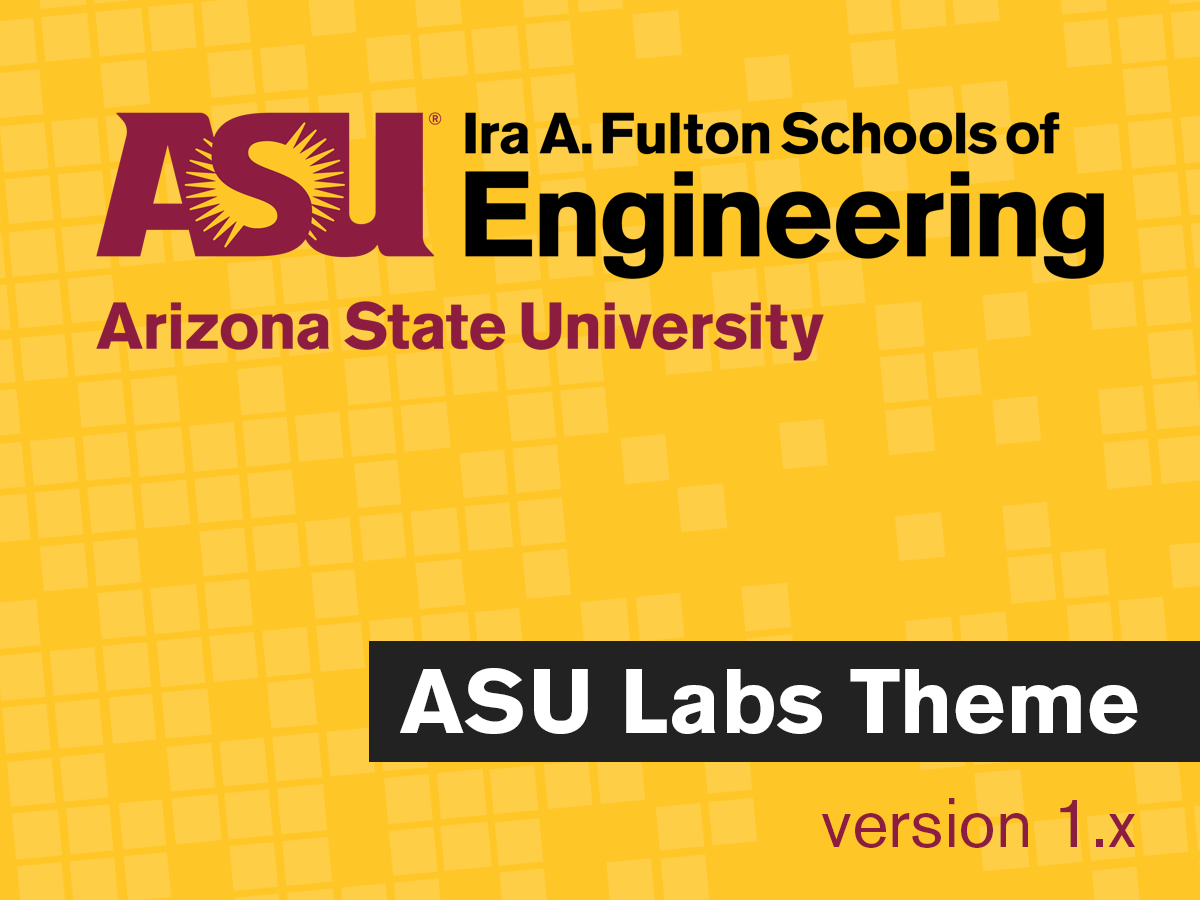
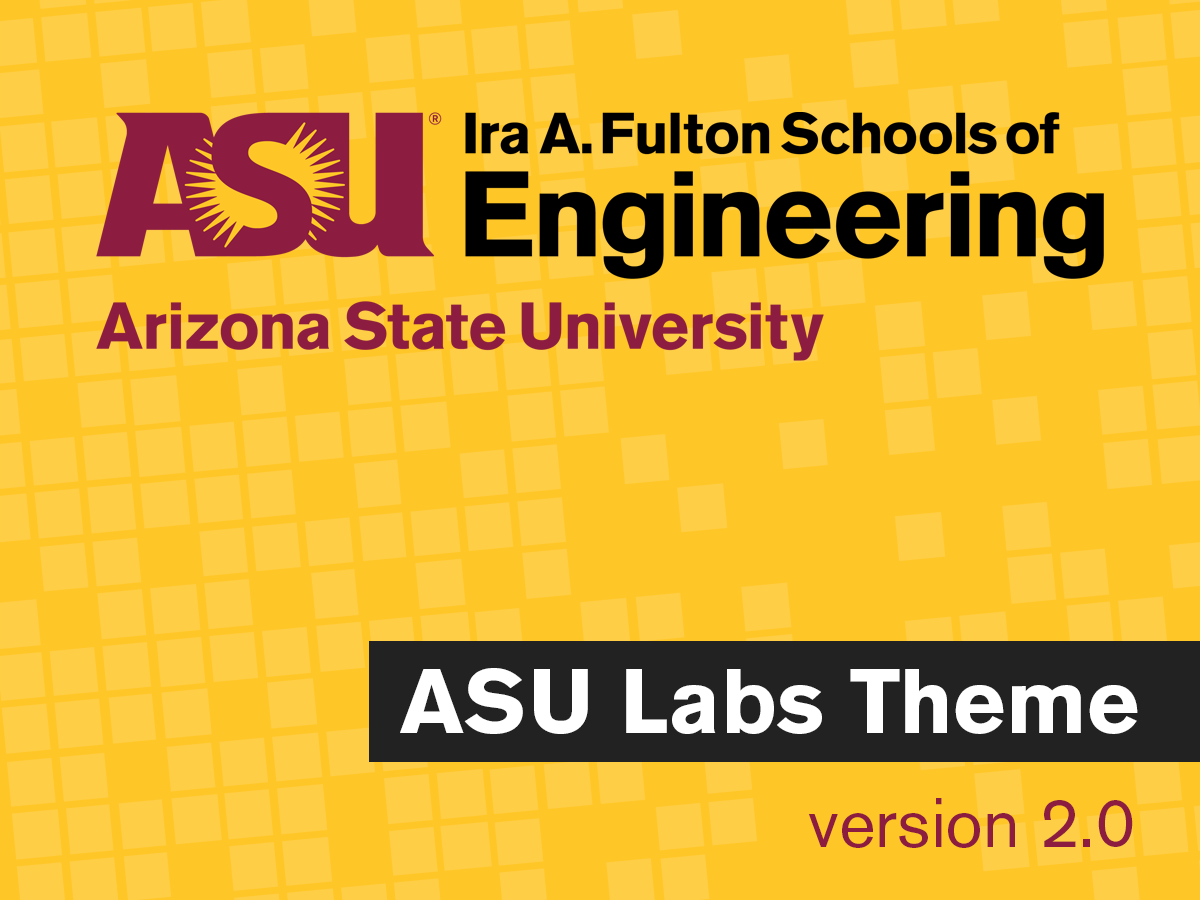
Version bump to 2.0

Changed region(s): [[0.6783, 0.8711, 0.9558, 0.9644]]

diff --git a/README.html b/README.html
@@ -14,8 +14,7 @@
 <p>This theme brings to life several templates and custom post types that we commonly found within our collection of working small &amp; medium sized lab groups. It is a parent theme and includes the following assets.</p>
 
 <ul>
-<li>ASU Header and Footer, version 4.6</li>
-<li>Font Awesome Pro, version 5.2</li>
+<li>Font Awesome Pro, version 5.12.0</li>
 <li>Google Font &#8220;Roboto&#8221;, part of the ASU Web Standards.</li>
 <li>Carbon Fields v3.0, loaded as a part of the theme.</li>
 </ul>
@@ -35,6 +34,19 @@
 </figure>
 
 <h2 id="enhancements">Enhancements</h2>
+
+<h3 id="version2.0">Version 2.0</h3>
+
+<ul>
+<li>The theme no longer includes certain elements from the ASU global header and footer packages. These elements were designed for a layout and mobile experience that differs from this site&#8217;s vertical menu orientation. The template still includes the global ASU Google Analytics tag.</li>
+<li>Instead, the theme now has an off-canvas mobile menu which tucks the navigation out of the way when the screen size narrows beyond a certain point. The menu slides in from the left when it is needed again.</li>
+<li>The menu area is now a whole lot more customizable. Users will now have the option to add:</li>
+<li> a custom site image (logo)</li>
+<li> custom font awesome icons for each menu entry</li>
+<li> an endorsed logo in the menu &#8220;footer&#8221;</li>
+<li> social media icons and general contact information</li>
+<li>The Font Awesome 5 library was updated to version 5.12.0</li>
+</ul>
 
 <h3 id="version1.6">Version 1.6</h3>
 

diff --git a/style.css b/style.css
@@ -4,7 +4,7 @@ Theme URI: https://github.com/asuengineering/asu-labs-theme
 Author: Steve Ryan (ASU Engineering)
 Author URI: https://engineering.asu.edu
 Description: A theme for WordPress to help build and organize small group websites. Ideal for engineering "lab" groups on campus.
-Version: 1.6
+Version: 2.0
 License: GNU General Public License v2 or later
 License URI: LICENSE
 Text Domain: asufaculty
@@ -14,11 +14,8 @@ GitHub Theme URI: https://github.com/asuengineering/asu-labs-theme
 This theme, like WordPress, is licensed under the GPL.
 Use it to make something cool, have fun, and share what you've learned with others.
 
-The ASU Labs theme is based on Underscores https://underscores.me/, (C) 2012-2017 Automattic, Inc.
-Underscores is distributed under the terms of the GNU GPL v2 or later.
+The ASU Labs theme is based on Underscores https://underscores.me/
 
-Normalizing styles have been helped along thanks to the fine work of
-Nicolas Gallagher and Jonathan Neal https://necolas.github.io/normalize.css/
 */
 /*--------------------------------------------------------------
 >>> TABLE OF CONTENTS:
@@ -1132,8 +1129,9 @@ a.toggle.close {
   border-top: 1px solid #b2b2b2;
   margin-top: 0.5em;
   padding-top: 0.5em; }
-  .single .entry-meta svg {
-    margin-right: 10px; }
+  .single .entry-meta > span:after {
+    content: "|";
+    padding: 0 20px; }
   .single .entry-meta > span:after {
     content: "|";
     padding: 0 20px; }

diff --git a/sass/style.scss b/sass/style.scss
@@ -4,7 +4,7 @@ Theme URI: https://github.com/asuengineering/asu-labs-theme
 Author: Steve Ryan (ASU Engineering)
 Author URI: https://engineering.asu.edu
 Description: A theme for WordPress to help build and organize small group websites. Ideal for engineering "lab" groups on campus.
-Version: 1.6
+Version: 2.0
 License: GNU General Public License v2 or later
 License URI: LICENSE
 Text Domain: asufaculty
@@ -14,11 +14,8 @@ GitHub Theme URI: https://github.com/asuengineering/asu-labs-theme
 This theme, like WordPress, is licensed under the GPL.
 Use it to make something cool, have fun, and share what you've learned with others.
 
-The ASU Labs theme is based on Underscores https://underscores.me/, (C) 2012-2017 Automattic, Inc.
-Underscores is distributed under the terms of the GNU GPL v2 or later.
+The ASU Labs theme is based on Underscores https://underscores.me/
 
-Normalizing styles have been helped along thanks to the fine work of
-Nicolas Gallagher and Jonathan Neal https://necolas.github.io/normalize.css/
 */
 
 /*--------------------------------------------------------------

diff --git a/README.md b/README.md
@@ -6,8 +6,7 @@ A theme for WordPress to help build and organize small group websites. Ideal for
 
 This theme brings to life several templates and custom post types that we commonly found within our collection of working small & medium sized lab groups. It is a parent theme and includes the following assets.
 
-- ASU Header and Footer, version 4.6
-- Font Awesome Pro, version 5.2
+- Font Awesome Pro, version 5.12.0
 - Google Font "Roboto", part of the ASU Web Standards.
 - Carbon Fields v3.0, loaded as a part of the theme.
 
@@ -21,6 +20,17 @@ To form the relationships needed between our custom post types, this theme requi
 ![Sparky's Trident](https://brandguide.asu.edu/sites/default/files/styles/panopoly_image_original/public/asu_brandhq_images_master_pitchfork_0.png?itok=CdnAzLZW)
 
 ## Enhancements
+
+### Version 2.0
+
+- The theme no longer includes certain elements from the ASU global header and footer packages. These elements were designed for a layout and mobile experience that differs from this site's vertical menu orientation. The template still includes the global ASU Google Analytics tag.
+- Instead, the theme now has an off-canvas mobile menu which tucks the navigation out of the way when the screen size narrows beyond a certain point. The menu slides in from the left when it is needed again.
+- The menu area is now a whole lot more customizable. Users will now have the option to add:
+  - a custom site image (logo)
+  - custom font awesome icons for each menu entry
+  - an endorsed logo in the menu "footer"
+  - social media icons and general contact information
+- The Font Awesome 5 library was updated to version 5.12.0
 
 ### Version 1.6
 
